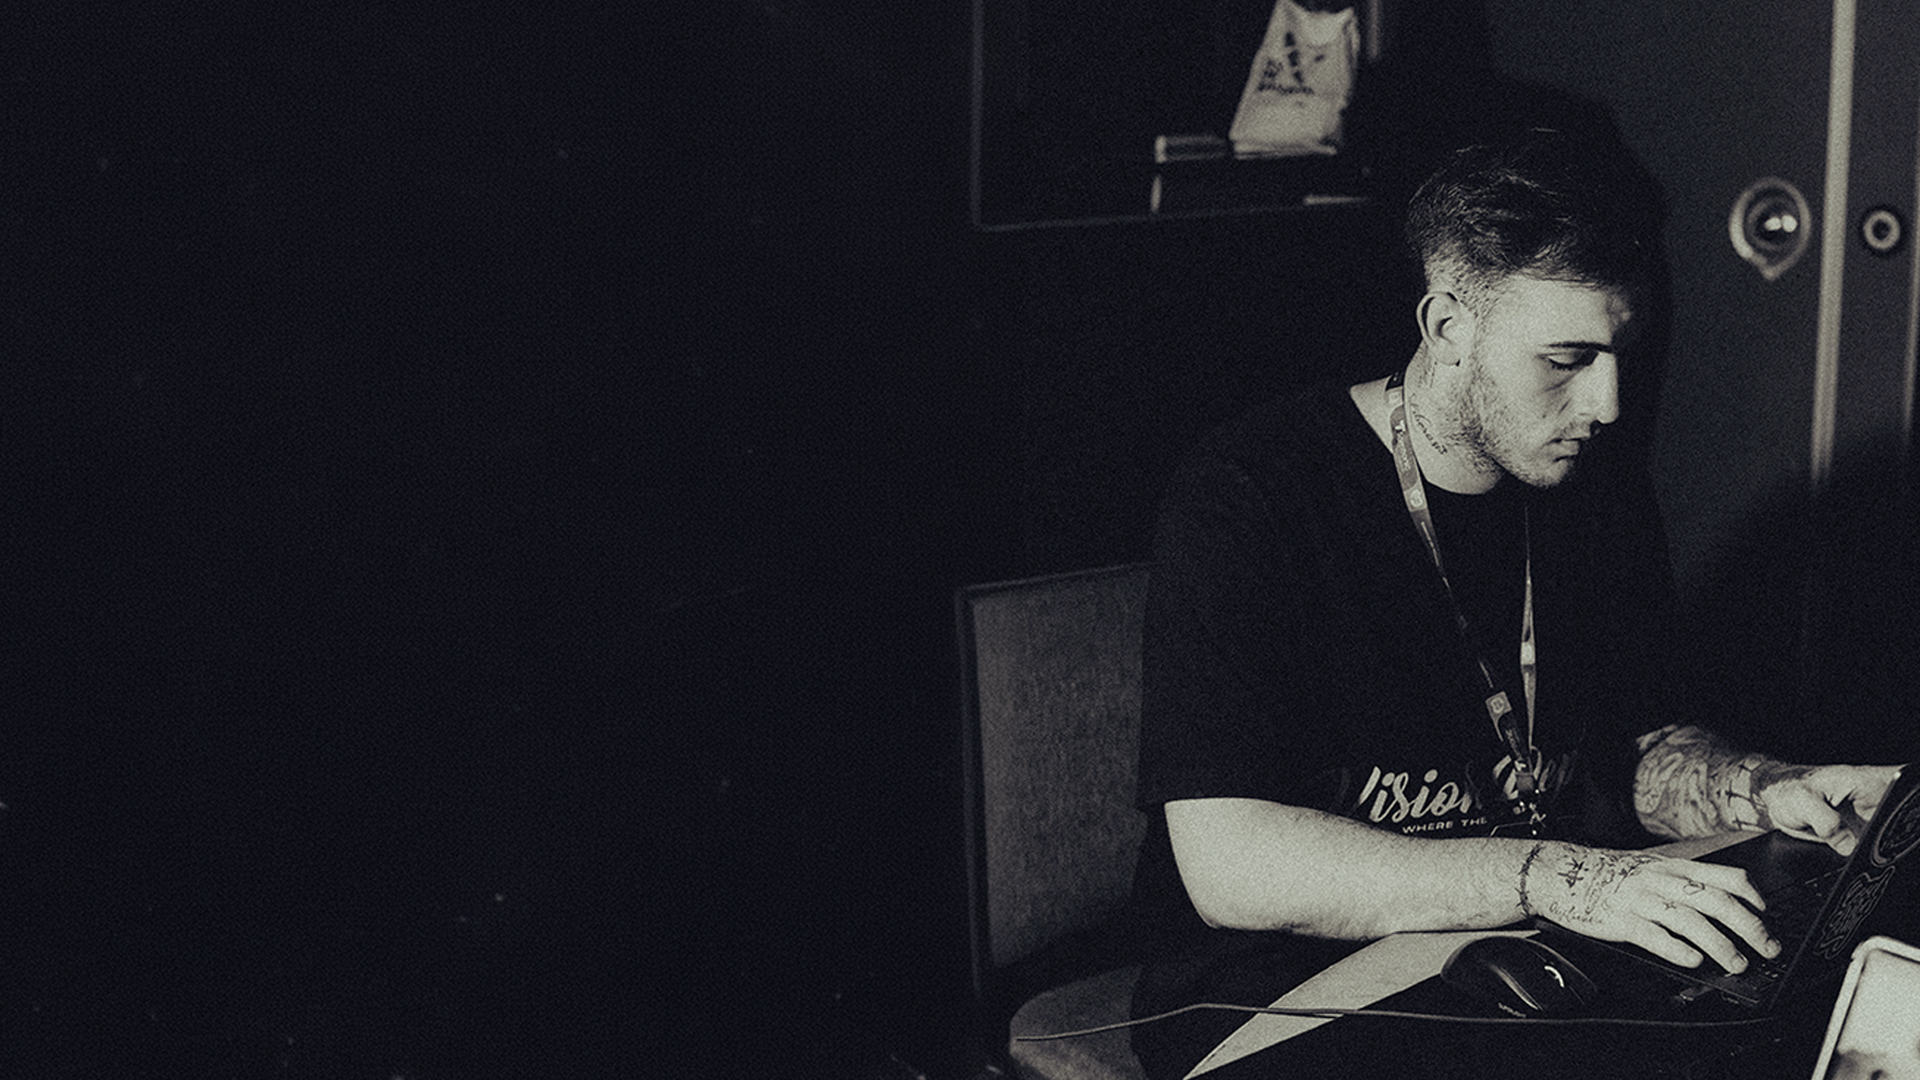
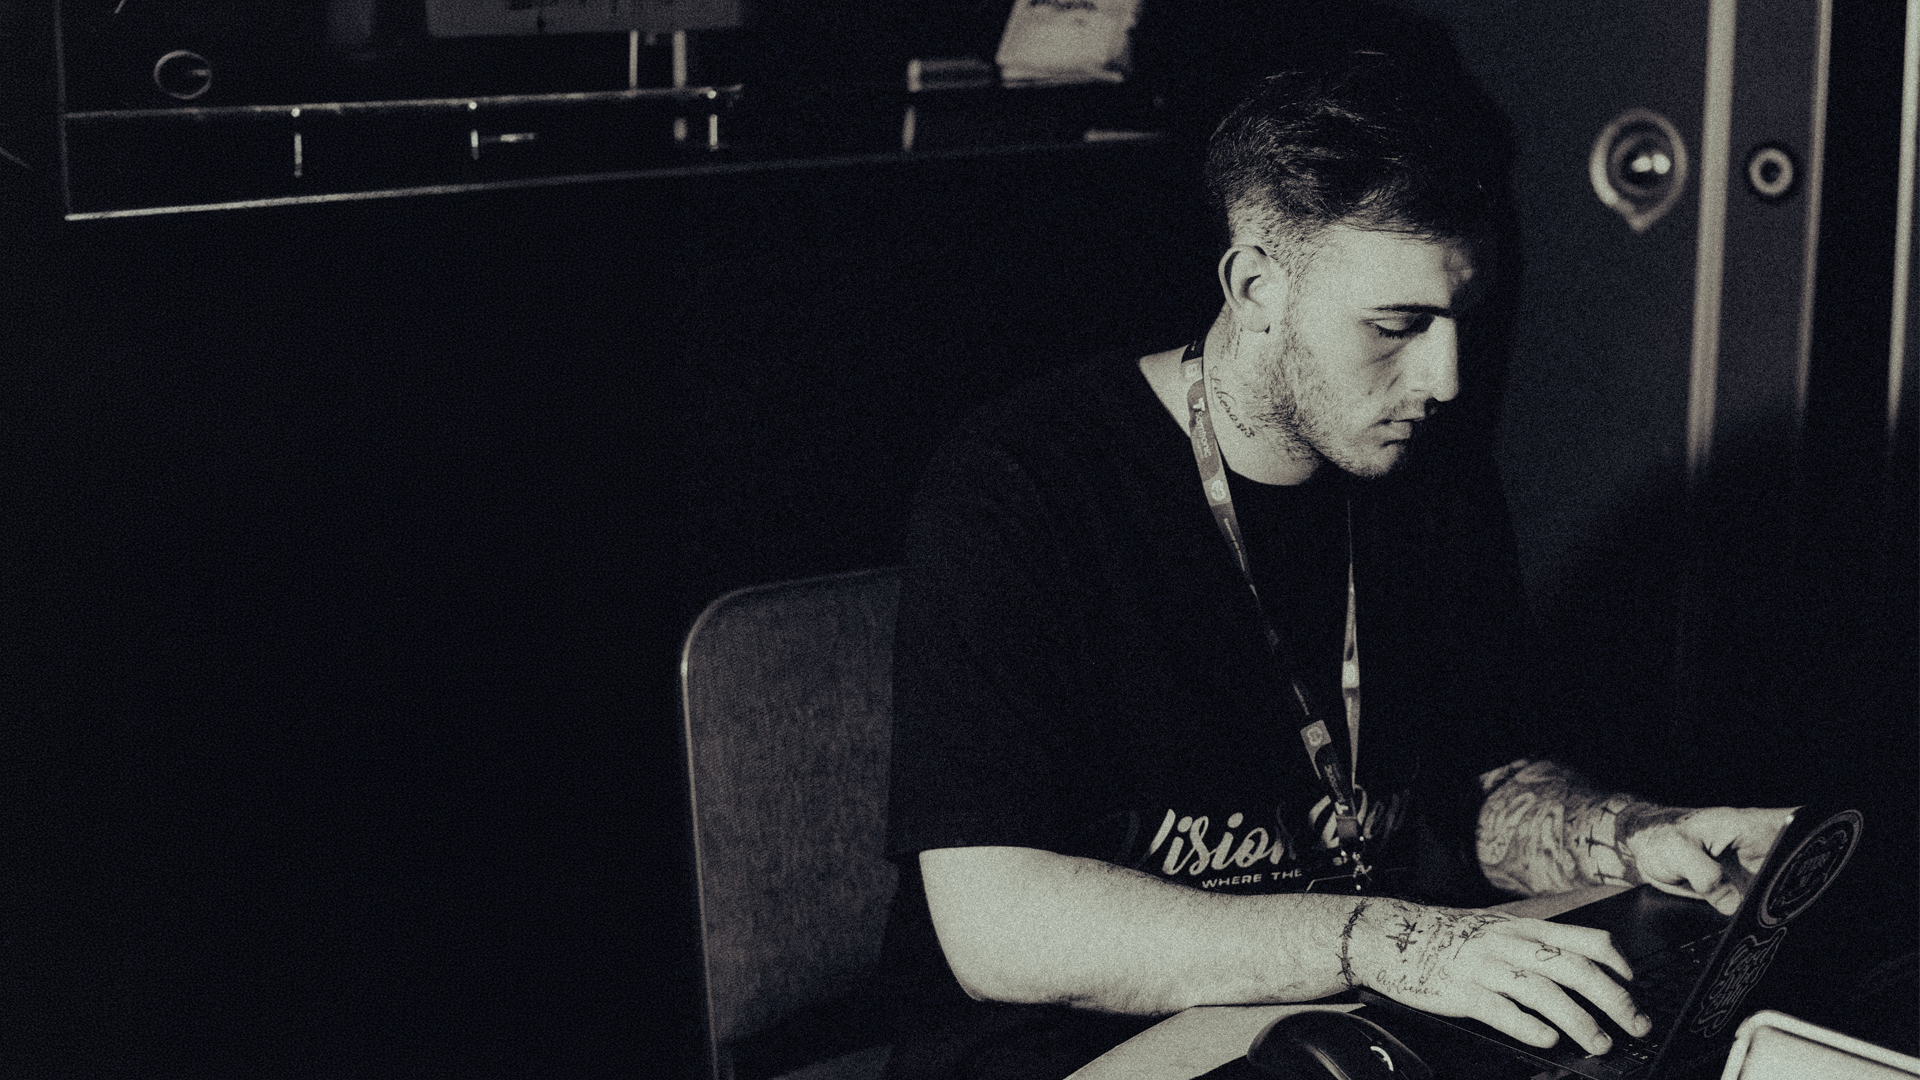
upgrade

diff --git a/css/style.css b/css/style.css
@@ -589,15 +589,6 @@ button {
   animation: marquee-scroll 38s linear infinite;
 }
 
-/* Solo pausa al hover en dispositivos con mouse de verdad: en touch,
-   el :hover puede quedar "pegado" tras un tap y la pasarela parece
-   frenada para siempre. */
-@media (hover: hover) and (pointer: fine) {
-  .marquee:hover .marquee__track {
-    animation-play-state: paused;
-  }
-}
-
 .marquee__group {
   display: flex;
   align-items: center;
@@ -606,7 +597,7 @@ button {
 
 .marquee__item {
   flex-shrink: 0;
-  width: 230px;
+  width: 400px;
   aspect-ratio: 4/3;
   margin: 0 16px;
   overflow: hidden;
